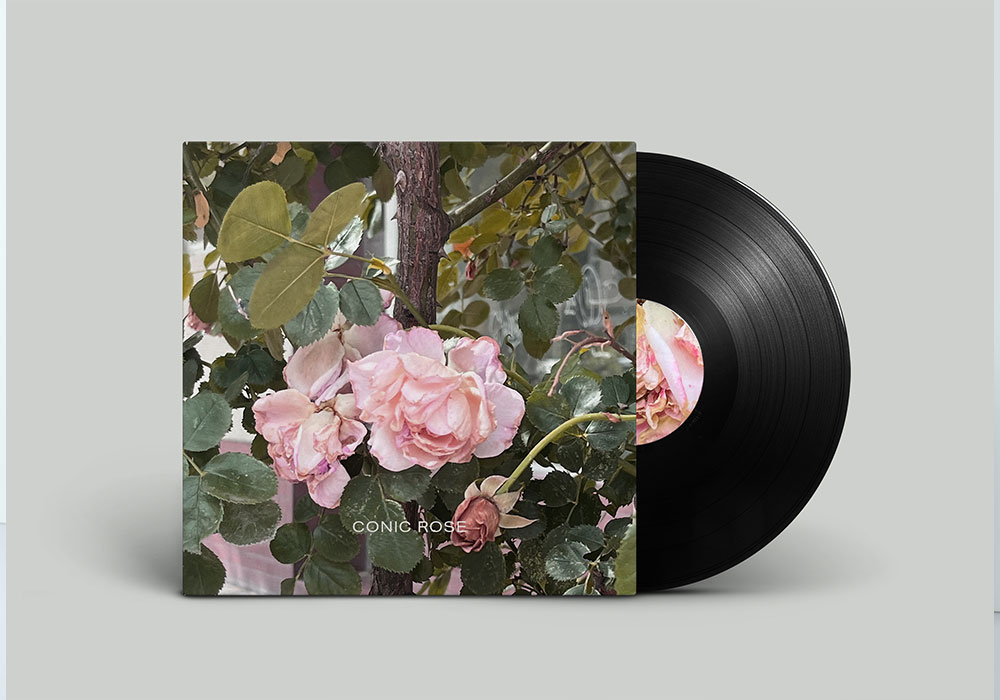
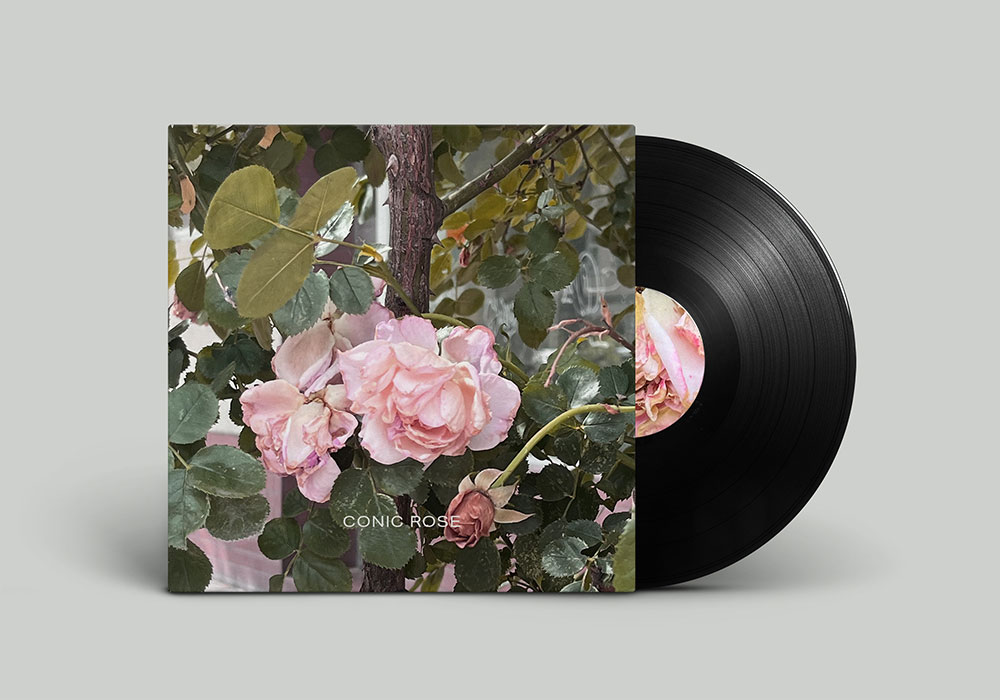
Update Conic Rose case: fix card widths, image formats, mobile image order, team info, and case content updates

diff --git a/src/pages/DesktopCaseView.jsx b/src/pages/DesktopCaseView.jsx
@@ -1,4 +1,4 @@
-import React, { useState } from 'react';
+import React, { useState, useEffect, useCallback } from 'react';
 import { useNavigate } from 'react-router-dom';
 import { motion } from 'framer-motion';
 import Navbar from '../components/Navbar/Navbar';
@@ -22,11 +22,113 @@ const DesktopCaseView = ({ caseItem }) => {
   };
 
   // Harmonische Anordnung der Bilder für den Licht-Tisch
-  const caseImages = [
-    { id: 1, url: caseItem.image, format: 'portrait', initialX: 600, initialY: 200 },
-    { id: 2, url: caseItem.detailImage1, format: 'landscape', initialX: 1200, initialY: 500 },
-    { id: 3, url: caseItem.detailImage2, format: 'portrait', initialX: 200, initialY: 800 },
-  ].filter(img => img.url); // Zeigt nur Bilder an, die existieren
+  // Automatische Erkennung des Bildformats oder verwende definierte Formate
+  const [imageFormats, setImageFormats] = useState({});
+
+  // Für Conic Rose alle Bilder verwenden (ohne Duplikate), sonst nur die ersten 3
+  const getUniqueImages = useCallback(() => {
+    if (caseItem.id === 6) { // CONIC ROSE
+      const images = [
+        caseItem.image,
+        caseItem.detailImage1,
+        caseItem.detailImage2,
+        caseItem.detailImage3,
+        caseItem.detailImage4,
+        caseItem.detailImage5,
+        caseItem.detailImage6
+      ].filter(Boolean);
+      // Entferne Duplikate
+      return [...new Set(images)];
+    }
+    return [
+      caseItem.image,
+      caseItem.detailImage1,
+      caseItem.detailImage2
+    ].filter(Boolean);
+  }, [caseItem.id, caseItem.image, caseItem.detailImage1, caseItem.detailImage2, caseItem.detailImage3, caseItem.detailImage4, caseItem.detailImage5, caseItem.detailImage6]);
+
+  const allImages = getUniqueImages();
+  
+  // Wenn imageFormats definiert sind, verwende diese, sonst erkenne automatisch
+  useEffect(() => {
+    const currentImages = getUniqueImages();
+    
+    if (caseItem.imageFormats && caseItem.id === 6) {
+      // Für Conic Rose: Mappe die Formate auf die eindeutigen Bilder
+      const formats = {};
+      const originalImages = [
+        caseItem.image,
+        caseItem.detailImage1,
+        caseItem.detailImage2,
+        caseItem.detailImage3,
+        caseItem.detailImage4,
+        caseItem.detailImage5,
+        caseItem.detailImage6
+      ].filter(Boolean);
+      
+      currentImages.forEach((url, uniqueIndex) => {
+        const originalIndex = originalImages.indexOf(url);
+        if (originalIndex !== -1 && caseItem.imageFormats[originalIndex]) {
+          formats[uniqueIndex] = caseItem.imageFormats[originalIndex];
+        }
+      });
+      setImageFormats(formats);
+    } else {
+      // Automatische Erkennung
+      const formats = {};
+      currentImages.forEach((url, index) => {
+        if (url) {
+          const img = new Image();
+          img.onload = () => {
+            const aspectRatio = img.width / img.height;
+            formats[index] = aspectRatio >= 1 ? 'landscape' : 'portrait';
+            setImageFormats({ ...formats });
+          };
+          img.src = url;
+        }
+      });
+    }
+  }, [getUniqueImages, caseItem.id, caseItem.imageFormats, caseItem.image, caseItem.detailImage1, caseItem.detailImage2, caseItem.detailImage3, caseItem.detailImage4, caseItem.detailImage5, caseItem.detailImage6]);
+
+  const initialPositions = caseItem.id === 6
+    ? [
+        { x: 600, y: 200 },
+        { x: 1200, y: 500 },
+        { x: 200, y: 800 },
+        { x: 900, y: 1000 },
+        { x: 400, y: 600 },
+        { x: 1400, y: 300 },
+        { x: 1100, y: 900 }
+      ]
+    : [
+        { x: 600, y: 200 },
+        { x: 1200, y: 500 },
+        { x: 200, y: 800 }
+      ];
+
+  // Extrahiere Bildtitel aus URLs oder verwende definierte Titel
+  const getImageTitle = (url, index) => {
+    if (caseItem.imageTitles && caseItem.imageTitles[index]) {
+      return caseItem.imageTitles[index];
+    }
+    // Fallback: Extrahiere Dateinamen ohne Extension
+    if (url) {
+      const filename = url.split('/').pop().replace(/\.[^/.]+$/, '');
+      return filename.replace(/[-_]/g, ' ').replace(/\b\w/g, l => l.toUpperCase());
+    }
+    return '';
+  };
+
+  const caseImages = allImages
+    .map((url, index) => ({
+      id: index + 1,
+      url,
+      title: getImageTitle(url, index),
+      format: imageFormats[index] || 'landscape', // Fallback zu landscape während des Ladens
+      initialX: initialPositions[index]?.x || 600,
+      initialY: initialPositions[index]?.y || 200
+    }))
+    .filter(img => img.url); // Zeigt nur Bilder an, die existieren
 
   return (
     <div className="min-h-screen bg-[#F1F2E5] overflow-y-auto">
@@ -60,7 +162,6 @@ const DesktopCaseView = ({ caseItem }) => {
                   className="absolute z-10 group cursor-grab active:cursor-grabbing"
                   style={{
                     width: img.format === 'portrait' ? '350px' : '500px',
-                    height: img.format === 'portrait' ? '500px' : '340px',
                   }}
                   animate={{ 
                     scale: isScaled ? 2 : 1, 
@@ -68,12 +169,21 @@ const DesktopCaseView = ({ caseItem }) => {
                   }}
                   transition={{ type: "spring", stiffness: 300, damping: 30 }}
                 >
-                  <div className="relative w-full h-full shadow-2xl overflow-hidden">
-                    <img 
-                      src={img.url} 
-                      alt="" 
-                      className="w-full h-full object-cover select-none pointer-events-none" 
-                    />
+                  <div className="relative w-full shadow-2xl overflow-hidden">
+                    <div className="relative w-full" style={{ height: img.format === 'portrait' ? '500px' : '340px' }}>
+                      <img 
+                        src={img.url} 
+                        alt="" 
+                        className="w-full h-full object-cover select-none pointer-events-none" 
+                      />
+                    </div>
+                    {img.title && (
+                      <div className="absolute bottom-0 left-0 pl-[18px] pb-[18px] z-20 pointer-events-none">
+                        <p className="text-[10px] lg:text-[14px] font-neue-semibold uppercase text-black">
+                          {img.title}
+                        </p>
+                      </div>
+                    )}
                   </div>
                 </motion.div>
               );
@@ -85,7 +195,7 @@ const DesktopCaseView = ({ caseItem }) => {
               drag 
               dragMomentum={false} 
               initial={{ x: cardPositions.projectInfo.x, y: cardPositions.projectInfo.y }}
-              className="absolute bg-[#E2DED3] p-8 cursor-move shadow-lg z-20"
+              className="absolute bg-[#E2DED3] p-8 cursor-move shadow-lg w-[300px] z-20"
             >
               <h2 className="text-[24px] lg:text-[36px] font-neue-semibold uppercase tracking-normal leading-tight text-black mb-[68px]">{caseItem.title}</h2>
               <p className="text-lg font-neue-book-semi leading-relaxed text-black">{caseItem.description}</p>
@@ -97,10 +207,10 @@ const DesktopCaseView = ({ caseItem }) => {
                 drag 
                 dragMomentum={false} 
                 initial={{ x: cardPositions.challenge.x, y: cardPositions.challenge.y }}
-                className="absolute bg-[#E2DED3] p-8 cursor-move shadow-lg w-[400px] h-[300px] z-20 flex flex-col overflow-hidden"
+                className="absolute bg-[#E2DED3] p-8 cursor-move shadow-lg w-[300px] z-20"
               >
-                <h2 className="text-[24px] lg:text-[36px] font-neue-semibold uppercase tracking-normal leading-tight text-black mb-[68px] flex-shrink-0">CHALLENGE</h2>
-                <p className="text-lg font-neue-book-semi leading-relaxed text-black overflow-y-auto flex-1">{caseItem.challenge}</p>
+                <h2 className="text-[24px] lg:text-[36px] font-neue-semibold uppercase tracking-normal leading-tight text-black mb-[68px]">CHALLENGE</h2>
+                <p className="text-lg font-neue-book-semi leading-relaxed text-black">{caseItem.challenge}</p>
               </motion.div>
             )}
 
@@ -110,10 +220,10 @@ const DesktopCaseView = ({ caseItem }) => {
                 drag 
                 dragMomentum={false} 
                 initial={{ x: cardPositions.impact.x, y: cardPositions.impact.y }}
-                className="absolute bg-[#E2DED3] p-8 cursor-move shadow-lg w-[400px] h-[300px] z-20 flex flex-col overflow-hidden"
+                className="absolute bg-[#E2DED3] p-8 cursor-move shadow-lg w-[300px] z-20"
               >
-                <h2 className="text-[24px] lg:text-[36px] font-neue-semibold uppercase tracking-normal leading-tight text-black mb-[68px] flex-shrink-0">IMPACT</h2>
-                <p className="text-lg font-neue-book-semi leading-relaxed text-black overflow-y-auto flex-1">{caseItem.impact}</p>
+                <h2 className="text-[24px] lg:text-[36px] font-neue-semibold uppercase tracking-normal leading-tight text-black mb-[68px]">IMPACT</h2>
+                <p className="text-lg font-neue-book-semi leading-relaxed text-black">{caseItem.impact}</p>
               </motion.div>
             )}
 
@@ -123,10 +233,10 @@ const DesktopCaseView = ({ caseItem }) => {
                 drag 
                 dragMomentum={false} 
                 initial={{ x: cardPositions.outcome.x, y: cardPositions.outcome.y }}
-                className="absolute bg-[#E2DED3] p-8 cursor-move shadow-lg w-[400px] h-[300px] z-20 flex flex-col overflow-hidden"
+                className="absolute bg-[#E2DED3] p-8 cursor-move shadow-lg w-[300px] z-20"
               >
-                <h2 className="text-[24px] lg:text-[36px] font-neue-semibold uppercase tracking-normal leading-tight text-black mb-[68px] flex-shrink-0">OUTCOME</h2>
-                <p className="text-lg font-neue-book-semi leading-relaxed text-black overflow-y-auto flex-1">{caseItem.outcome}</p>
+                <h2 className="text-[24px] lg:text-[36px] font-neue-semibold uppercase tracking-normal leading-tight text-black mb-[68px]">OUTCOME</h2>
+                <p className="text-lg font-neue-book-semi leading-relaxed text-black">{caseItem.outcome}</p>
               </motion.div>
             )}
 
@@ -136,10 +246,10 @@ const DesktopCaseView = ({ caseItem }) => {
                 drag 
                 dragMomentum={false} 
                 initial={{ x: cardPositions.learning.x, y: cardPositions.learning.y }}
-                className="absolute bg-[#E2DED3] p-8 cursor-move shadow-lg w-[400px] h-[300px] z-20 flex flex-col overflow-hidden"
+                className="absolute bg-[#E2DED3] p-8 cursor-move shadow-lg w-[300px] z-20"
               >
-                <h2 className="text-[24px] lg:text-[36px] font-neue-semibold uppercase tracking-normal leading-tight text-black mb-[68px] flex-shrink-0">LEARNING</h2>
-                <p className="text-lg font-neue-book-semi leading-relaxed text-black italic overflow-y-auto flex-1">"{caseItem.learning}"</p>
+                <h2 className="text-[24px] lg:text-[36px] font-neue-semibold uppercase tracking-normal leading-tight text-black mb-[68px]">LEARNING</h2>
+                <p className="text-lg font-neue-book-semi leading-relaxed text-black italic">"{caseItem.learning}"</p>
               </motion.div>
             )}
 
@@ -149,11 +259,15 @@ const DesktopCaseView = ({ caseItem }) => {
           {caseItem.team && (
             <div className="fixed bottom-12 left-12 z-0 pointer-events-none">
               <h3 className="text-[24px] lg:text-[36px] font-neue-semibold uppercase tracking-normal leading-tight text-black mb-6">{caseItem.team.title}</h3>
-              <div className="space-y-2 text-lg font-neue-book-semi leading-relaxed text-black">
-                {caseItem.team.members.map((member, index) => (
-                  <p key={index}>{member}</p>
-                ))}
-              </div>
+              {caseItem.team.collaboration ? (
+                <p className="text-lg font-neue-book-semi leading-relaxed text-black">{caseItem.team.collaboration}</p>
+              ) : (
+                <div className="space-y-2 text-lg font-neue-book-semi leading-relaxed text-black">
+                  {caseItem.team.members?.map((member, index) => (
+                    <p key={index}>{member}</p>
+                  ))}
+                </div>
+              )}
             </div>
           )}
           {!caseItem.team && (

diff --git a/src/data/cases.js b/src/data/cases.js
@@ -42,12 +42,12 @@ export const cases = [
     description: "Designing a test drive booking system for Volkswagen ID models.",
     challenge: "Creating an intuitive booking experience for electric vehicle test drives.",
     impact: "Streamlined test drive booking process with improved user experience.",
-    outcome: "A digital platform that simplifies the test drive booking journey.",
+    outcome: "New Landingpagethat simplifies the test drive booking journey within the german market.",
     image: "/images/07_case_07/SliderImage_Volkswagen-IDModelleProbefahren.jpg",
     detailImage1: "/images/07_case_07/DetailUX.jpg",
     detailImage2: "/images/07_case_07/IDModelleProbefahren-copy.jpg",
     detailImage3: "/images/07_case_07/SLiderImage_IDModelleProbefahren.webp",
-    team: { title: "VOLKSWAGEN", members: ["Annemarie Sauerbier"] }
+    team: { title: "VOLKSWAGEN x DAYONE", members: ["VW PO Steffen H. with PM Max M., UX/UI Annemarie Sauerbier"] }
   },
   {
     id: 4,
@@ -58,7 +58,7 @@ export const cases = [
     description: "Developing a help center to improve customer support and self-service capabilities.",
     challenge: "Increased support tickets and customer frustration during the shopping journey.",
     impact: "Improved self-service rates and reduced support load through better information architecture.",
-    outcome: "A redesigned help center with intuitive navigation and clear categorization.",
+    outcome: "A redesigned help center featuring intuitive navigation, clear categorization, and a frequent-search function, utilizing responsive accordions for a seamless experience on all devices.",
     image: "/images/03_case_03/ImageSlider-Carhartt-Helpcenter.jpg",
     detailImage1: "/images/03_case_03/Carhartt_help_desk_live_garmentsecure.jpg",
     detailImage2: "/images/03_case_03/Helpdesk-Userflow.jpg",
@@ -73,7 +73,7 @@ export const cases = [
     tags: ["USER JOURNEY", "E-COMMERCE", "SEARCH"],
     description: "Building a Commerce Platform that fits the brand's heritage while driving technical revolution.",
     challenge: "Helping the Service Team get less load through a better Checkout and Order experience.",
-    impact: "Less returns due to better descriptions and targeted user journeys with integrated search and FAQs.",
+    impact: "Less returns due to better descriptions and targeted user journeys with integrated search, Filterupdate,new Image/Video upload for content team and Video usage modern product display aswell as more detailed description",
     outcome: "A modern platform that contributed to growth and stability during the Covid wave and beyond.",
     learning: "Stay true to your vision and aspirations. Trust within the team is the key to successful teamwork.",
     image: "/images/04_case_04/04carharttwip_shopping_journeyslider.jpg",
@@ -84,20 +84,28 @@ export const cases = [
   },
   {
     id: 6,
-    title: "CONIC ROSE – EIN HELLER TAG",
+    title: "CONIC ROSE | COVER ART",
     category: "VISUAL IDENTITY / ART",
     isPrivate: true,
     year: "2023",
-    tags: ["ALBUM DESIGN", "JAZZ", "CLUESO MENTORED"],
-    description: "Visual identity for the Berlin-based jazz-electronica band's debut, mentored by Clueso.",
-    challenge: "Creating a visual identity for music that was still evolving, capturing experimental sounds.",
-    impact: "Developed a visual concept that echoes the 'cut and thrust' of city life and 'filmic heartbreak'.",
-    outcome: "A mazy and masterful showcase of analog and digital tools reflecting the essence of the music.",
-    image: "/images/05_case_05/finalconicrosedesign.jpg",
-    detailImage1: "/images/05_case_05/conicrosefinal.jpg",
-    detailImage2: "/images/05_case_05/draft_3.jpg",
-    detailImage3: "/images/05_case_05/how_paint_waterclour_straw.jpg",
-    team: { title: "CONIC ROSE", members: ["Konstantin Döben", "Bertram Burkert", "Annemarie Sauerbier", "Mentored by Clueso"] }
+    tags: ["ALBUM DESIGN", "JAZZ"],
+    description: "I translated the band's emotional soundscape into a visual identity. It's a mix of mournful guitar, mazy trumpets, and the \"cut and thrust\" of Berlin life. I wanted to capture their music in a way that feels as filmic and experimental as the sound itself.",
+    challenge: "Designing for music in flux. The tracks were still evolving while I worked, so I couldn't lean on a final tracklist. I had to capture the \"vibe\" and the emotional core of the record rather than just specific songs.",
+    impact: "A hybrid of analog and digital textures that acts as a visual echo of the music.",
+    outcome: "It's a tangible home for the band's sound—organic, slightly forlorn, and authentically Berlin.",
+    image: "/images/05_case_05/conicrose-slider.jpg",
+    detailImage1: "/images/05_case_05/how_paint_waterclour_straw.jpg",
+    detailImage2: "/images/05_case_05/how_sunlight_print.jpg",
+    detailImage3: "/images/05_case_05/draft_b_cr.jpg",
+    detailImageMobile1: "/images/05_case_05/how_paint_waterclour_straw.jpg",
+    detailImageMobile2: "/images/05_case_05/how_sunlight_print.jpg",
+    detailImageMobile4: "/images/05_case_05/draft_3.jpg",
+    detailImageMobile5: "/images/05_case_05/finalconicrosedesign.jpg",
+    detailImage4: "/images/05_case_05/draft_3.jpg",
+    detailImage5: "/images/05_case_05/draft_conicr.jpg",
+    detailImage6: "/images/05_case_05/finalconicrosedesign.jpg",
+    imageFormats: ['landscape', 'portrait', 'portrait', 'landscape', 'landscape', 'landscape', 'landscape'],
+    team: { title: "CONIC ROSE", collaboration: "In zusammenarbeit mit CONIC ROSE und Annemarie S."} 
   },
   {
     id: 7,

diff --git a/src/pages/MobileCaseView.jsx b/src/pages/MobileCaseView.jsx
@@ -91,7 +91,7 @@ const MobileCaseView = ({ caseItem }) => {
                 <h2 className="text-[24px] lg:text-[36px] font-neue-semibold uppercase tracking-normal leading-tight text-black mb-[68px]">CHALLENGE</h2>
                 <p className="text-base lg:text-lg font-neue-book-semi leading-relaxed text-black">{caseItem.challenge}</p>
               </div>
-              {renderMedia(caseItem.detailImage1, "Challenge Detail", "grayscale hover:grayscale-0 transition-all duration-700")}
+              {renderMedia(caseItem.id === 6 ? caseItem.detailImageMobile1 : caseItem.detailImage1, "Challenge Detail", "grayscale hover:grayscale-0 transition-all duration-700")}
             </div>
           )}
 
@@ -102,18 +102,7 @@ const MobileCaseView = ({ caseItem }) => {
                 <h2 className="text-[24px] lg:text-[36px] font-neue-semibold uppercase tracking-normal leading-tight text-black mb-[68px]">IMPACT</h2>
                 <p className="text-base lg:text-lg font-neue-book-semi leading-relaxed text-black">{caseItem.impact}</p>
               </div>
-              {renderMedia(caseItem.detailImage2, "Impact Detail", "")}
-            </div>
-          )}
-
-          {/* OUTCOME */}
-          {caseItem.outcome && (
-            <div className="space-y-[0.1875rem] snap-start">
-              <div className="bg-[#E2DED3] p-8 space-y-0">
-                <h2 className="text-[24px] lg:text-[36px] font-neue-semibold uppercase tracking-normal leading-tight text-black mb-[68px]">OUTCOME</h2>
-                <p className="text-base lg:text-lg font-neue-book-semi leading-relaxed text-black">{caseItem.outcome}</p>
-              </div>
-              {renderMedia(caseItem.detailImage3, "Final Outcome Detail", "shadow-lg")}
+              {renderMedia(caseItem.id === 6 ? caseItem.detailImageMobile2 : caseItem.detailImage2, "Impact Detail", "")}
             </div>
           )}
 
@@ -124,6 +113,24 @@ const MobileCaseView = ({ caseItem }) => {
                 <h2 className="text-[24px] lg:text-[36px] font-neue-semibold uppercase tracking-normal leading-tight text-black mb-[68px]">LEARNING</h2>
                 <p className="text-base lg:text-lg font-neue-book-semi leading-relaxed text-black italic">"{caseItem.learning}"</p>
               </div>
+            </div>
+          )}
+
+          {/* Additional image for Conic Rose (before OUTCOME) */}
+          {caseItem.id === 6 && caseItem.detailImageMobile4 && (
+            <div className="space-y-[0.1875rem] snap-start">
+              {renderMedia(caseItem.detailImageMobile4, "Detail", "")}
+            </div>
+          )}
+
+          {/* OUTCOME */}
+          {caseItem.outcome && (
+            <div className="space-y-[0.1875rem] snap-start">
+              <div className="bg-[#E2DED3] p-8 space-y-0">
+                <h2 className="text-[24px] lg:text-[36px] font-neue-semibold uppercase tracking-normal leading-tight text-black mb-[68px]">OUTCOME</h2>
+                <p className="text-base lg:text-lg font-neue-book-semi leading-relaxed text-black">{caseItem.outcome}</p>
+              </div>
+              {renderMedia(caseItem.id === 6 ? caseItem.detailImageMobile5 : caseItem.detailImage3, "Final Outcome Detail", "shadow-lg")}
             </div>
           )}
 

diff --git a/src/components/Navbar/Navbar.jsx b/src/components/Navbar/Navbar.jsx
@@ -5,7 +5,7 @@ const Navbar = ({ activeFilter, setActiveFilter }) => {
   const [isMenuOpen, setIsMenuOpen] = useState(false);
   const filterOptions = ['all', 'commercial', 'private'];
   const hiddenPages = ['Home', 'Privacy', 'Contact'];
-  const marqueeText = " ✦ PRODUCT DESIGN & BRANDING ✦ SINCE 2012 ✦ SPECIALISED IN E-COMMERCE & SERVICE DESIGN ✦ GOOD DESIGN PERFORMS ✦ STOP BEING BORING ✦ ";
+  const marqueeText = " ✦ PRODUCT DESIGN & BRANDING ✦ SINCE 2012 ✦ SPECIALISED IN E-COMMERCE & SERVICE DESIGN ✦ STOP BEING BORING ✦ ";
   
   // Split text into sentences and render with alternating colors
   const renderMarqueeText = () => {
@@ -47,11 +47,11 @@ const Navbar = ({ activeFilter, setActiveFilter }) => {
           <div className="w-full lg:flex-1 overflow-hidden whitespace-nowrap h-[40px] flex items-center border-b lg:border-none border-black/5 px-6 lg:px-0">
             <motion.div 
               animate={{ x: [0, -1000] }} 
-              transition={{ repeat: Infinity, duration: 30, ease: "linear" }}
+              transition={{ repeat: Infinity, duration: 60, ease: "linear" }}
               className="text-[14px] lg:text-[40px] font-black font-neue uppercase flex"
             >
-              <span className="pr-10 flex">{renderMarqueeText()}</span>
-              <span className="pr-10 flex">{renderMarqueeText()}</span>
+              <span className="pr-4 flex">{renderMarqueeText()}</span>
+              <span className="pr-4 flex">{renderMarqueeText()}</span>
             </motion.div>
           </div>
           <nav className="flex space-x-2 lg:space-x-4 items-center w-full lg:w-auto justify-between lg:justify-end h-[70px]">
